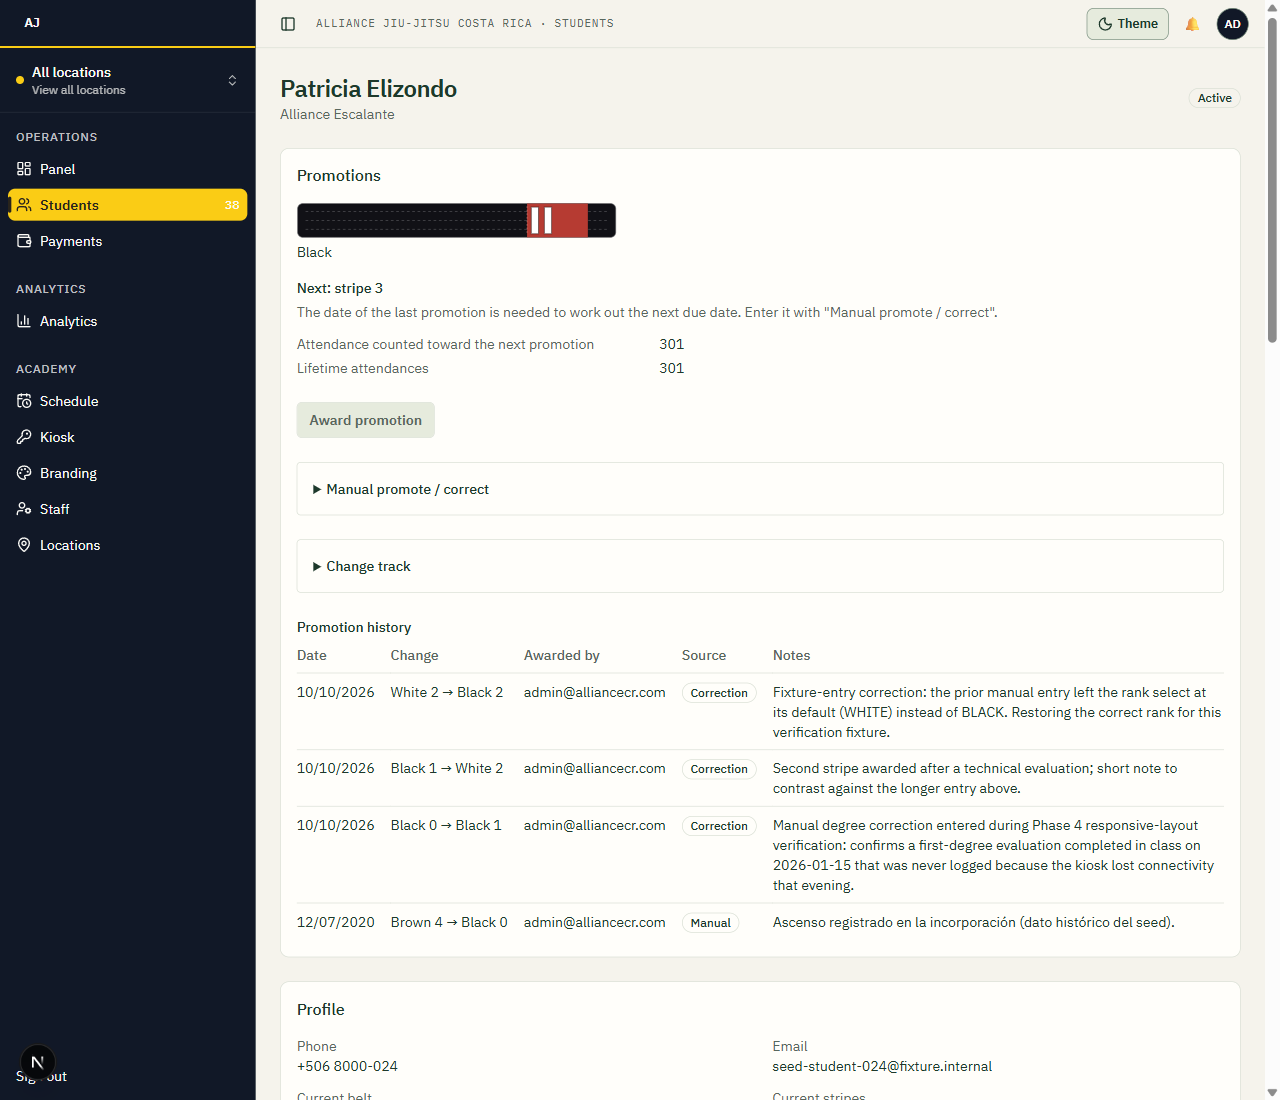
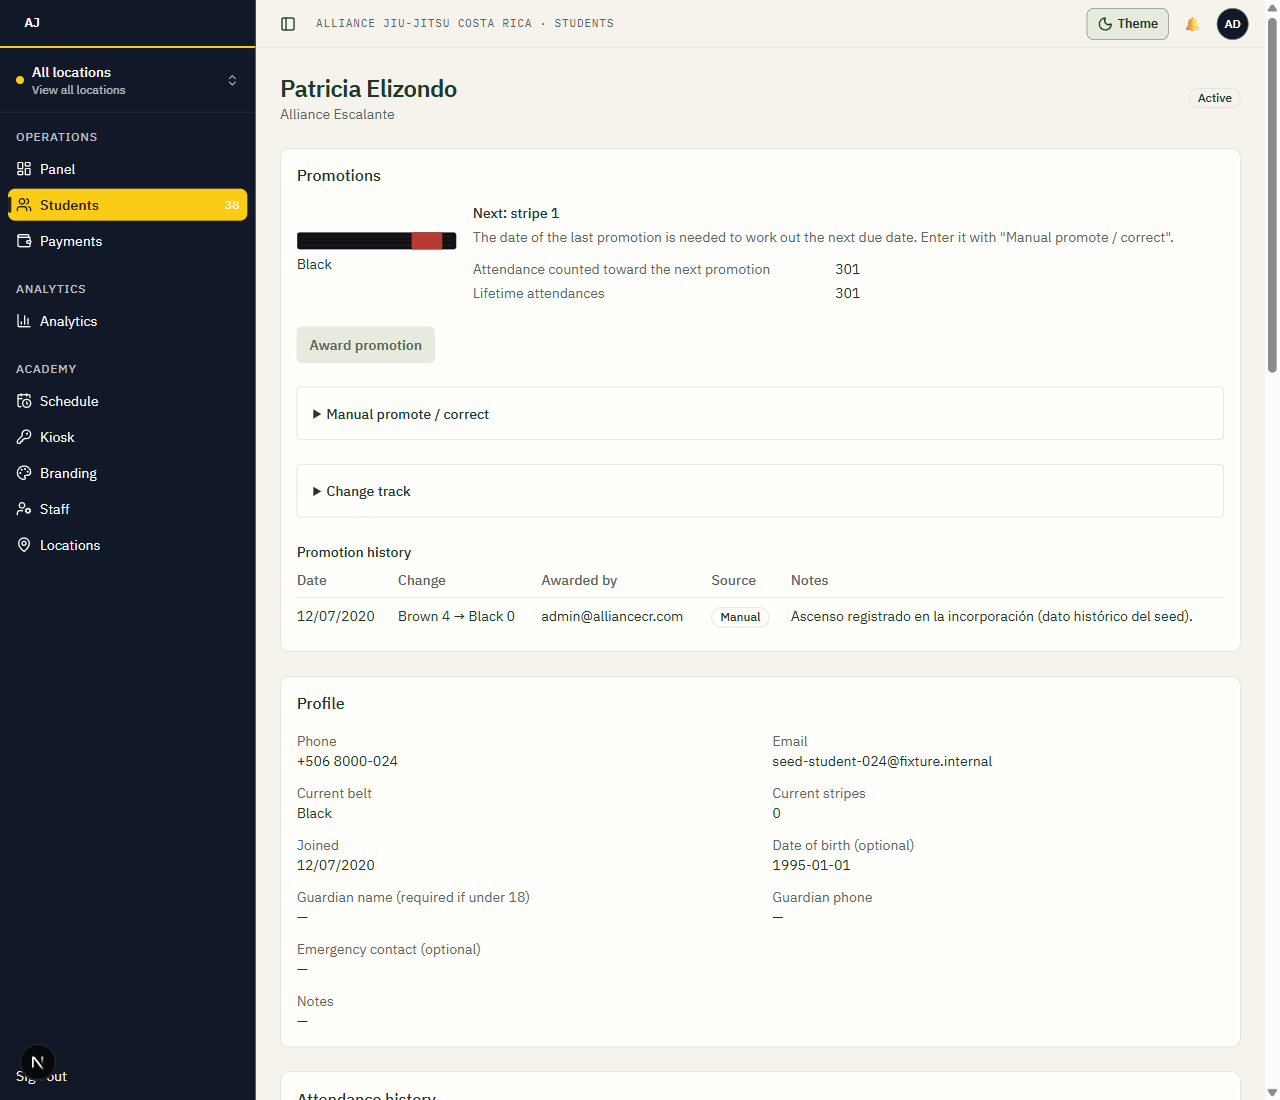
fix(belt-graphic): thread className to the SVG, not the figcaption, so it can actually size the belt
BeltGraphic always called BeltVisual with className={undefined} and routed the
caller's className to the figcaption instead. promociones-card.tsx's hero belt
(className="w-40") never got constrained as a result, rendering at its full
unconstrained intrinsic width (320px) and overflowing/clipping its rank bar
and stripes at 320px.

Fix: BeltGraphic now passes className to BeltVisual's <svg>; the svg's fixed
height attribute is replaced with style={aspectRatio: "360/40", height:
"auto"} (the same ratio the old formula used) so a width override scales the
belt proportionally instead of distorting or clipping it. A caller with no
className renders pixel-identical to before.

Only one consumer (promociones-card.tsx) ever passes className to BeltGraphic
— verified via a full grep of every <BeltGraphic>/<BeltBar> call site in src/
(kiosk, portal, dashboard, marketing homepage, /dev/belts, every BeltBar
caller) — so this cannot regress any of them.

The belt's intended 160px size has no responsive variant, so it was always
meant to apply at every width, not just mobile. The bug meant it never
applied anywhere; the previously-approved desktop screenshot was itself
showing the same unconstrained ~320px belt, just without visible clipping
since desktop has room to spare. Verified via getBoundingClientRect at
desktop/390px/320px (isolated dev server against the guarded test DB): SVG
renders at the intended 160x17.77px at all three widths, zero page overflow,
[…]

diff --git a/tests/unit/belt-graphic.test.tsx b/tests/unit/belt-graphic.test.tsx
@@ -169,6 +169,31 @@ describe("BeltGraphic — degree clamping", () => {
   });
 });
 
+describe("BeltGraphic — a caller's className sizes the belt itself, not just its caption (320px clipping fix)", () => {
+  it("reaches the <svg> (not the figcaption) so a width-constraining class can actually shrink the rendered belt", () => {
+    const { container } = render(<BeltGraphic belt={SOLID} stripes={2} label="Blue belt" className="w-40" />);
+    expect(container.querySelector("svg")).toHaveClass("w-40");
+    // The old bug sent it here instead — must stay the default caption styling regardless of the caller's class.
+    expect(container.querySelector("figcaption")).toHaveClass("text-sm");
+    expect(container.querySelector("figcaption")).not.toHaveClass("w-40");
+  });
+
+  it("lets height track a narrower width proportionally (aspect-ratio), rather than clipping at a fixed height", () => {
+    const { container } = render(<BeltGraphic belt={SOLID} stripes={2} label="Blue belt" className="w-40" />);
+    const svg = container.querySelector("svg") as SVGSVGElement;
+    // VIEW_W/VIEW_H's ratio, not a fixed pixel height — so a CSS width override (from the caller's class)
+    // resizes height to match instead of leaving it fixed at the unconstrained-width's height.
+    expect(svg.style.aspectRatio).toBe("360 / 40");
+    expect(svg.style.height).toBe("auto");
+  });
+
+  it("without a className, the figcaption keeps its default text styling and the svg has no class at all", () => {
+    const { container } = render(<BeltGraphic belt={SOLID} stripes={2} label="Blue belt" />);
+    expect(container.querySelector("figcaption")).toHaveClass("text-sm");
+    expect(container.querySelector("svg")).not.toHaveAttribute("class");
+  });
+});
+
 describe("BeltBar — the compact list-row wrapper", () => {
   it("is aria-hidden (the caller's own adjacent text carries the accessible label, per REDESIGN_BRIEF.md Phase 3)", () => {
     const { container } = render(<BeltBar belt={SOLID} stripes={2} />);

diff --git a/src/components/belt-graphic/belt-graphic.tsx b/src/components/belt-graphic/belt-graphic.tsx
@@ -110,7 +110,6 @@ function BeltVisual({ belt, stripes, label, size = "lg", className }: BeltGraphi
   const edgeId = useId();
 
   const width = SIZE_WIDTH[size];
-  const height = width / (VIEW_W / VIEW_H);
   const showWeave = size !== "xs";
   const showDepth = size !== "xs";
   const allStitchRows = size === "xs" ? [0.33, 0.67] : [0.25, 0.5, 0.75];
@@ -139,10 +138,14 @@ function BeltVisual({ belt, stripes, label, size = "lg", className }: BeltGraphi
     <svg
       viewBox={`0 0 ${VIEW_W} ${VIEW_H}`}
       width={width}
-      height={height}
       role="img"
       aria-label={label}
       className={className}
+      // height intentionally NOT a fixed attribute: a caller's className (e.g. "w-40") must be able to shrink
+      // the rendered width below `width`, and this keeps height following it proportionally (aspect-ratio = the
+      // same VIEW_W/VIEW_H ratio the old fixed `height` used, so a caller that never overrides width renders at
+      // the exact same pixel height as before).
+      style={{ aspectRatio: `${VIEW_W} / ${VIEW_H}`, height: "auto" }}
     >
       <defs>
         <clipPath id={clipId}>
@@ -233,8 +236,11 @@ function BeltVisual({ belt, stripes, label, size = "lg", className }: BeltGraphi
 export function BeltGraphic(props: BeltGraphicProps) {
   return (
     <figure className="flex flex-col gap-1">
-      <BeltVisual {...props} size={props.size ?? "lg"} className={undefined} />
-      <figcaption className={props.className ?? "text-sm"}>{props.label}</figcaption>
+      {/* The caller's className sizes the belt itself (e.g. a card with narrow available width) — it must reach
+          the <svg>, not just the caption below it. A caller that passes none keeps the figcaption's own
+          default text styling, same as before. */}
+      <BeltVisual {...props} size={props.size ?? "lg"} className={props.className} />
+      <figcaption className="text-sm">{props.label}</figcaption>
     </figure>
   );
 }

diff --git a/design/matroom/verification/phase4-roster-detail-implementation/README.md b/design/matroom/verification/phase4-roster-detail-implementation/README.md
@@ -12,9 +12,24 @@ These are notes about the **real application**, rendered from an isolated dev se
 
 ## What changed in production
 
-One file: `src/app/[locale]/(staff)/students/[id]/promociones-card.tsx`. See commit `126cbb7` for the full diff.
+Two files across two commits:
 
-Below ~400px, the promotion-history table's Date and Change cells render as a stacked `<ul>` instead, with date/rank-change/awarded-by/source/notes each their own line. At ≥400px the original table is unchanged.
+- `src/app/[locale]/(staff)/students/[id]/promociones-card.tsx` (commit `126cbb7`) — below ~400px, the promotion-history table's Date and Change cells render as a stacked `<ul>` instead, with date/rank-change/awarded-by/source/notes each their own line. At ≥400px the original table is unchanged.
+- `src/components/belt-graphic/belt-graphic.tsx` + `tests/unit/belt-graphic.test.tsx` (this commit) — see "Belt-graphic clipping defect and fix" below.
+
+### Belt-graphic clipping defect and fix
+
+Found during this pass's real-rendering reconciliation (not by the earlier, code-reading-only "already correct" claim this README previously made about belt graphics — that claim was wrong, and is corrected below). At 320px, the Promotions card's hero belt (`promociones-card.tsx:154`, `<BeltGraphic ... className="w-40" />`) rendered at its full unconstrained intrinsic width (320px for the default `lg` size) instead of the caller's intended 160px, overflowing the card and clipping its rank bar and stripes off-screen.
+
+**Root cause** (`src/components/belt-graphic/belt-graphic.tsx`): `BeltGraphic` passed the caller's `className` to the `<figcaption>` underneath the belt, while `BeltVisual` (the actual `<svg>`) was always called with `className={undefined}` — so no caller's sizing class could ever reach the element it needed to constrain. The `<svg>` also had a fixed pixel `height` attribute independent of its `width`, so simply threading `className` through without also fixing sizing would have let a width override distort (squash) the belt instead of scaling it proportionally.
+
+**Fix**: `BeltGraphic` now passes `className` to `BeltVisual`'s `<svg>` (figcaption keeps a fixed `"text-sm"` default, no longer borrowing the caller's class). `BeltVisual`'s `<svg>` replaced its fixed `height` attribute with `style={{ aspectRatio: "360 / 40", height: "auto" }}` (360×40 is `VIEW_W`/`VIEW_H`, the same ratio the old fixed-height formula used) — a caller with no `className` renders at the exact same pixel size as before (same `width` attribute, same computed height), while a caller that DOES constrain width (like `promociones-card.tsx`'s `w-40`) now gets a proportionally-scaled belt instead of an oversized, clipped one.
+
+**Consumer audit**: grepped every `<BeltGraphic`/`<BeltBar` call site in `src/`. Only `promociones-card.tsx` ever passes a `className` to `BeltGraphic` — every other consumer (kiosk check-in confirmation, portal progress card, dashboard, the marketing homepage, `/dev/belts`, and every `BeltBar` caller) never passes one, so this fix cannot change their rendered output at all (confirmed by the math above: their default path is pixel-identical).
+
+**A desktop appearance change, found to be correct, not a regression**: the belt's `className="w-40"` has no responsive variant — it was always meant to apply at every width, not just mobile. The bug meant it never applied anywhere, so the *previously-approved* desktop screenshot (`10-detail-desktop-light-en-admin-promotions.png`, now recaptured) was itself showing the same unconstrained ~320px belt, just without visible clipping since desktop has the width to spare. The fix now correctly renders the belt at its always-intended 160px at every width, including desktop — card layout, position, and proportions are otherwise unchanged. Verified via `getBoundingClientRect` at desktop (1280px)/390px/320px: SVG renders at exactly 160×17.77px at all three, `document.documentElement.scrollWidth === clientWidth` at all three (no page overflow), and the rank bar remains visible even with 0 stripes (the black-belt example used, `seed-student-024`/Patricia Elizondo, has 0 current stripes).
+
+**Regression test**: `tests/unit/belt-graphic.test.tsx`, new describe block "a caller's className sizes the belt itself, not just its caption" — asserts the `<svg>` (not the figcaption) receives the caller's className, that the figcaption keeps its default styling regardless, and that the svg's `aspectRatio`/`height: auto` style is present (the mechanism that makes a width override scale proportionally rather than distort or clip). Not a literal-string check of implementation detail — it asserts the className lands on the element that actually controls rendered size.
 
 **Correcting this README's own prior attribution**: an earlier version of this document (and the commit message/PR body, which still carry the original, slightly-too-confident phrasing) described this as something "found" by reasoning about production's CSS (`whitespace-nowrap` cells inside an `overflow-x-auto` wrapper) plus the prototype's demonstrated 320px defect — without ever having actually rendered the real, pre-fix production table at a narrow width, since the dev DB was broken at the time that commit was written. That gap is now closed: this pass **directly rendered the real pre-fix table** by temporarily swapping in the pre-Phase-4 version of `promociones-card.tsx` (from commit `a307d2e`, main's tip before this PR) into the isolated dev server, screenshotting it, then restoring the real fix (confirmed via `git diff --stat src/` returning empty afterward — no stray changes left behind). The result: **`12-detail-320-BEFORE-pre-phase4-pairing.png`** — at 320px, the pre-fix table shows only "Date" and "Change" as the two reachable columns (e.g. "10/10/2026 White 2 → Black 2" on one effective line), with Awarded-by/Source/Notes scrolled off-screen inside the table's own `overflow-x-auto` region. So: the run-together risk was *demonstrated first in the prototype's markup* (as the user's correction states), and is now *also directly confirmed in real pre-fix production* by this pass — both are true, and are no longer conflated as the same piece of evidence. The fixed state is `13-detail-390-light-en-promotions.png` / `14-detail-320-light-en-promotions.png`.
 
@@ -24,7 +39,7 @@ Everything else — roster table columns/density, detail card order (Promotions 
 
 | Area | Prototype proposed | Real production, rendered this pass | Evidence |
 |---|---|---|---|
-| Belt graphics | Black belt: red bar + white degree marks; white–brown: black bar + white stripes; bar visible at 0 stripes | Confirmed exact match — black belt renders a red bar with 2 white degree marks (real `BeltGraphic`, untouched) | `10-detail-desktop-light-en-admin-promotions.png` |
+| Belt graphics | Black belt: red bar; white–brown: black bar + white stripes; bar visible at 0 stripes; no clipping at any width | **Corrected this pass** — the shared `BeltGraphic` component HAD a real clipping bug at 320px (see "Belt-graphic clipping defect and fix" above); fixed, and now confirmed: black belt renders a visible red bar at 0 stripes, white belt renders a visible black bar + correct stripe count, no clipping and no distortion at desktop/390/320 (measured `getBoundingClientRect`, not eyeballed) | `10-…png` (desktop), `13-…png` (390), `14-…png` (320, white belt + 4 stripes) |
 | Roster density/columns | Compact rows, belt bar + stripe count, progress bar, payment/flag badges | Already matches — same columns, same density, same badge styling | `01-roster-desktop-light-en-admin.png` |
 | Detail card order | Promotions → Profile → Attendance → Legacy history → Ledger → actions | Confirmed via real render (Promotions, Profile, Attendance history, Payment history all present and ordered as proposed) | `10-…png`, full-page scroll confirmed in-session |
 | Promotion history ≥400px | Table, Date/Change/Awarded-by/Source/Notes as columns | Confirmed — real table, all 5 columns, long notes wrap without breaking layout | `10-detail-desktop-light-en-admin-promotions.png` |
@@ -37,14 +52,14 @@ Everything else — roster table columns/density, detail card order (Promotions 
 | Required-reason fields | Represented in the prototype as a disclosure + textarea | Confirmed present and functioning in the real app (Void entry's real "Reason (required)" field, expanded) | `18-detail-void-expanded-required-reason.png` |
 | Keyboard focus | — | Confirmed: tab order is sane (location switcher → nav links in document order), and a real, visible focus ring exists (`box-shadow` layer `rgb(239,241,233) 0 0 0 2px`, not just a transparent default) — measured via computed style, not assumed | measured in-session, no separate screenshot |
 
-No area required a new code change beyond the one already in `126cbb7` — every other proposed presentation detail was already true of `main`, now confirmed by rendering it rather than by reading its source.
+One area — belt graphics — required a genuine new code change this pass (the clipping defect above), found only once actually rendered rather than read; every other row in this table needed no change beyond the one already in `126cbb7`, now confirmed by rendering it rather than by reading its source.
 
 ## What IS verified
 
 - `tsc --noEmit`: clean.
-- ESLint on the changed file: clean.
-- Full unit suite: 117 files / 1653 tests passed.
-- Full integration suite, run only after the manual isolated-dev-server session above was torn down: the harness killed this run partway through for host-level memory pressure (not a test failure, not caused by this change) after 97/149 files and 1458/1919 tests had passed with zero failures observed. It was **not** re-run locally per the host's own guidance not to restart a memory-pressure-killed process speculatively. CI runs the full suite in its own clean environment on every push to this PR and is the authoritative full-suite verdict for this commit — see the PR/commit for its result.
+- ESLint on the changed files: clean.
+- Full unit suite: 117 files / 1656 tests passed (1653 + 3 new belt-graphic regression tests, this commit).
+- Full integration suite, run only after the manual isolated-dev-server session above was torn down: 149 files / 1919 tests passed, full local run, no memory-pressure interruption this time.
 - `git status --porcelain src/ prisma/`: clean — no schema/migration files touched, no stray changes left from the temporary before/after file swap.
 - Real-browser rendering of the live roster and detail pages: desktop (1280px), intermediate (960px), 390px, 320px; light and dark theme (measured, not guessed); EN and ES; ADMIN/DIRECTOR/INSTRUCTOR logins; a real expanded form with its required-reason field; keyboard focus/tab order.
 - CI (`.github/workflows` on this PR) — its result is reported in the PR/commit alongside this file.
